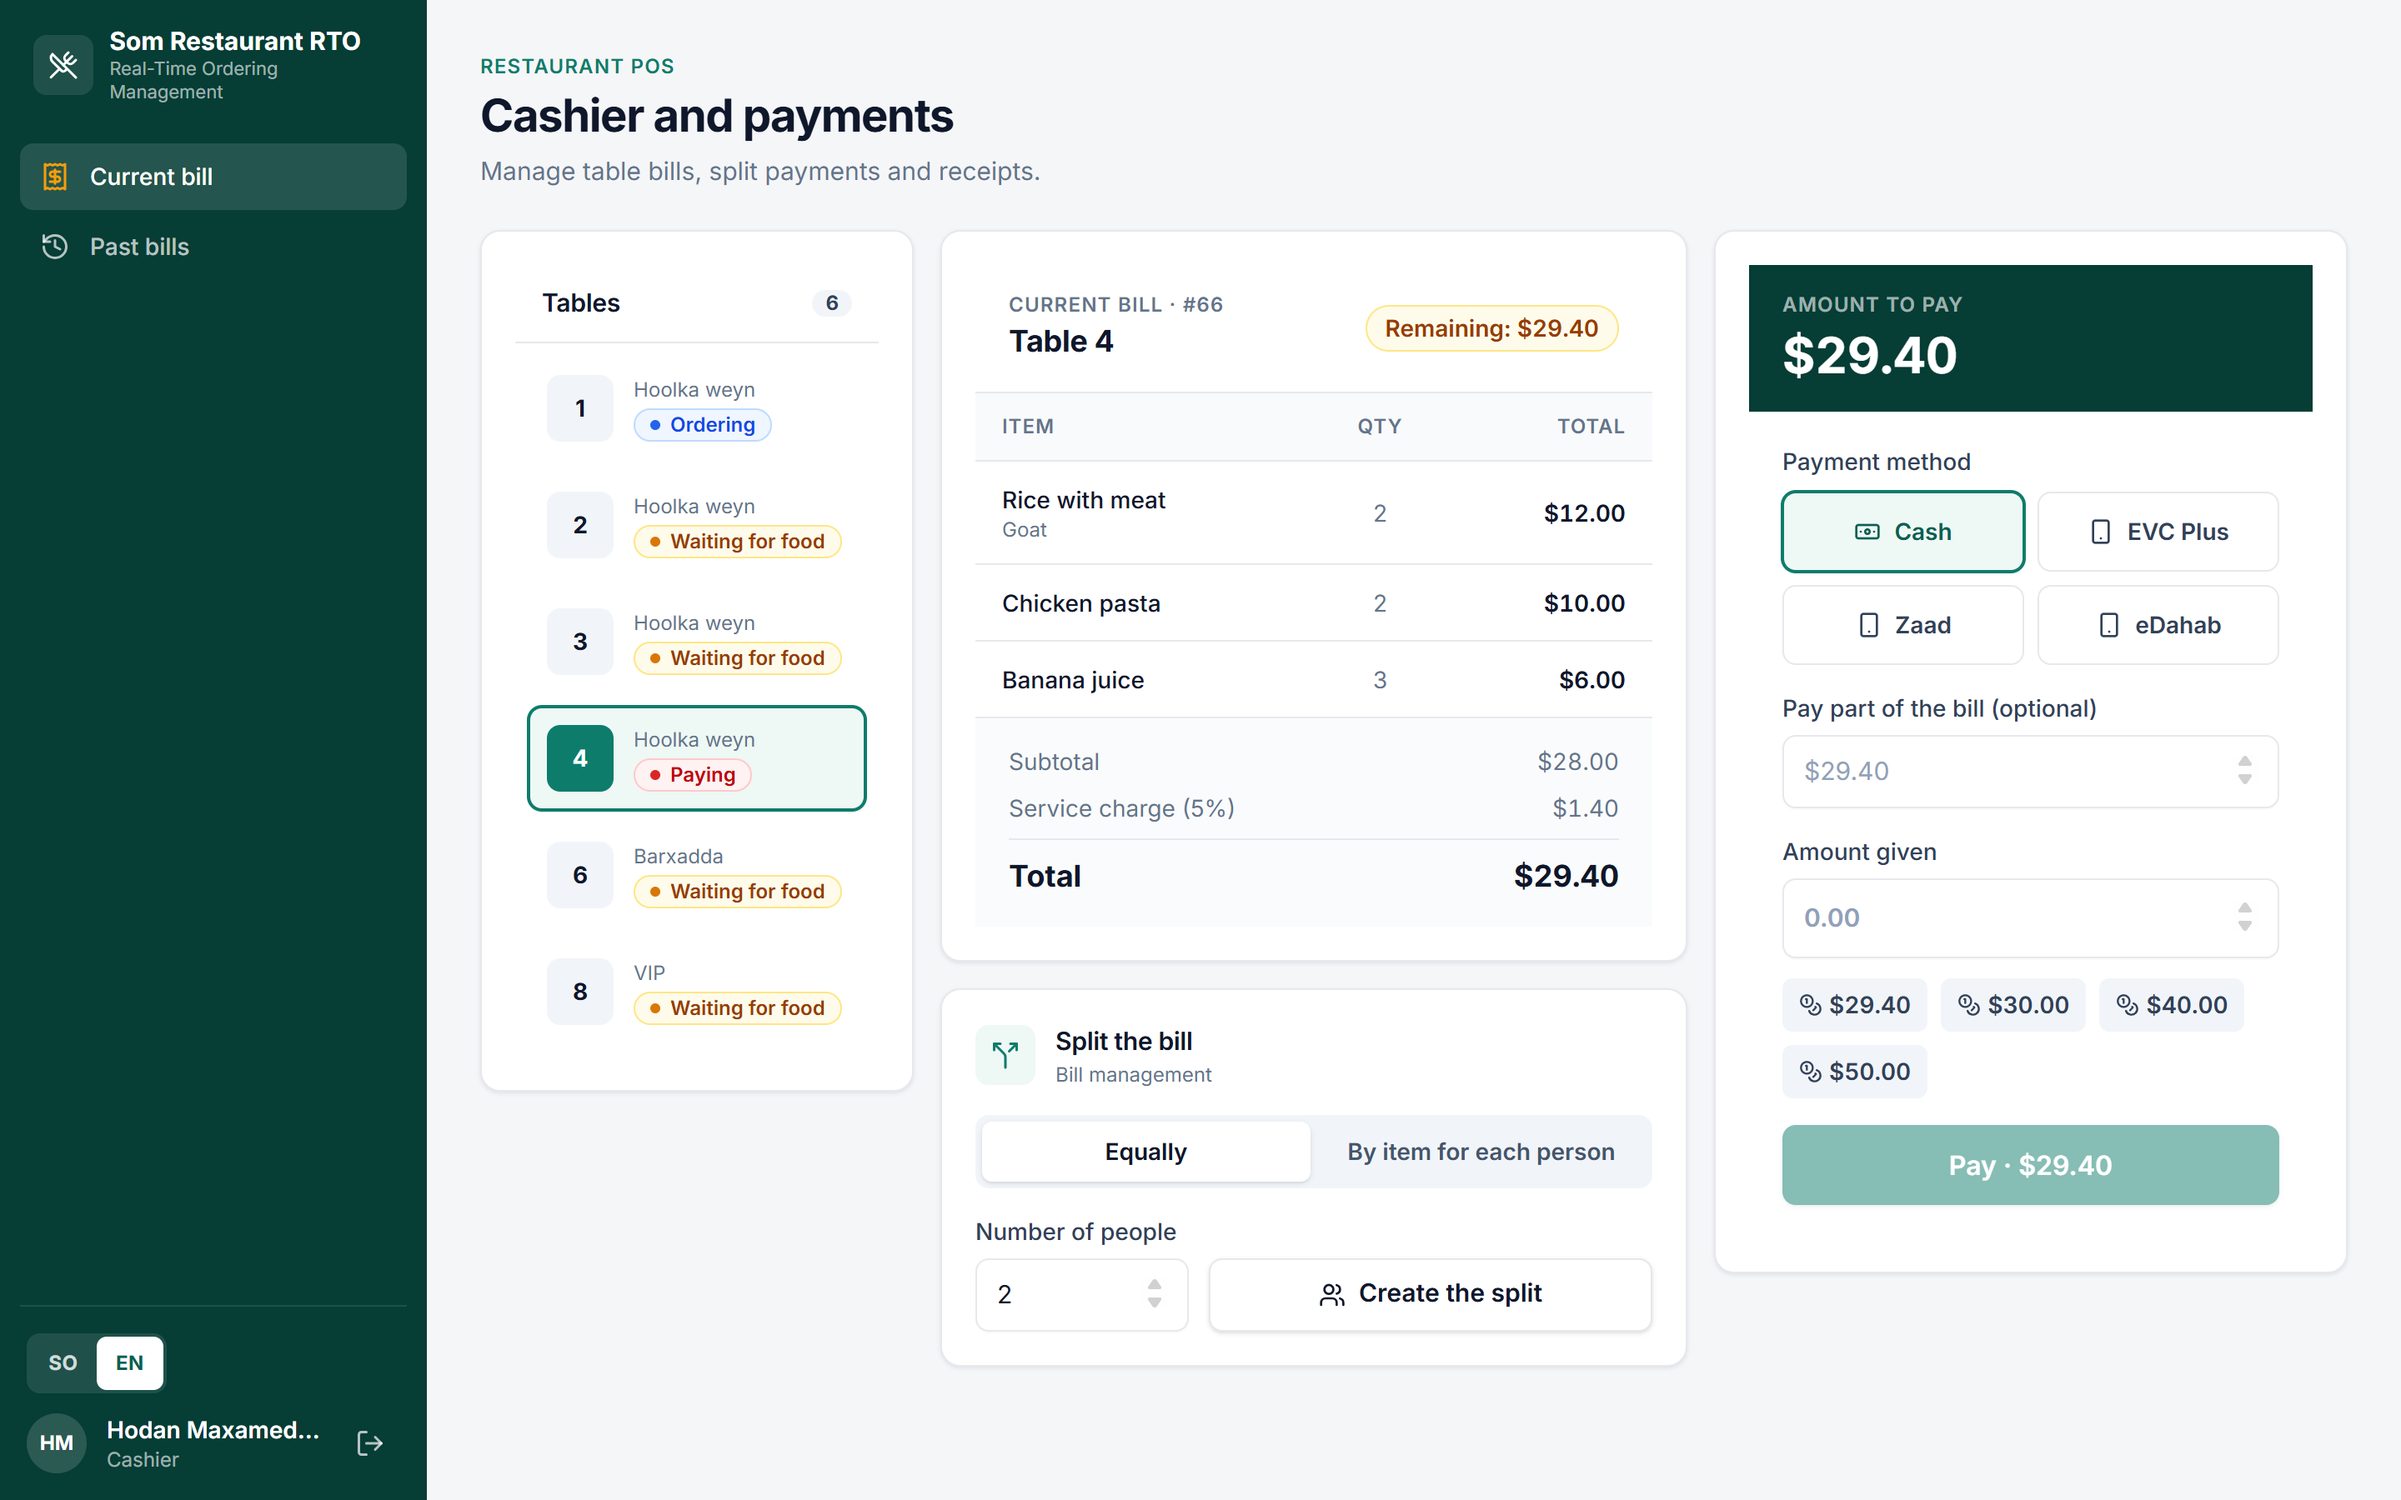
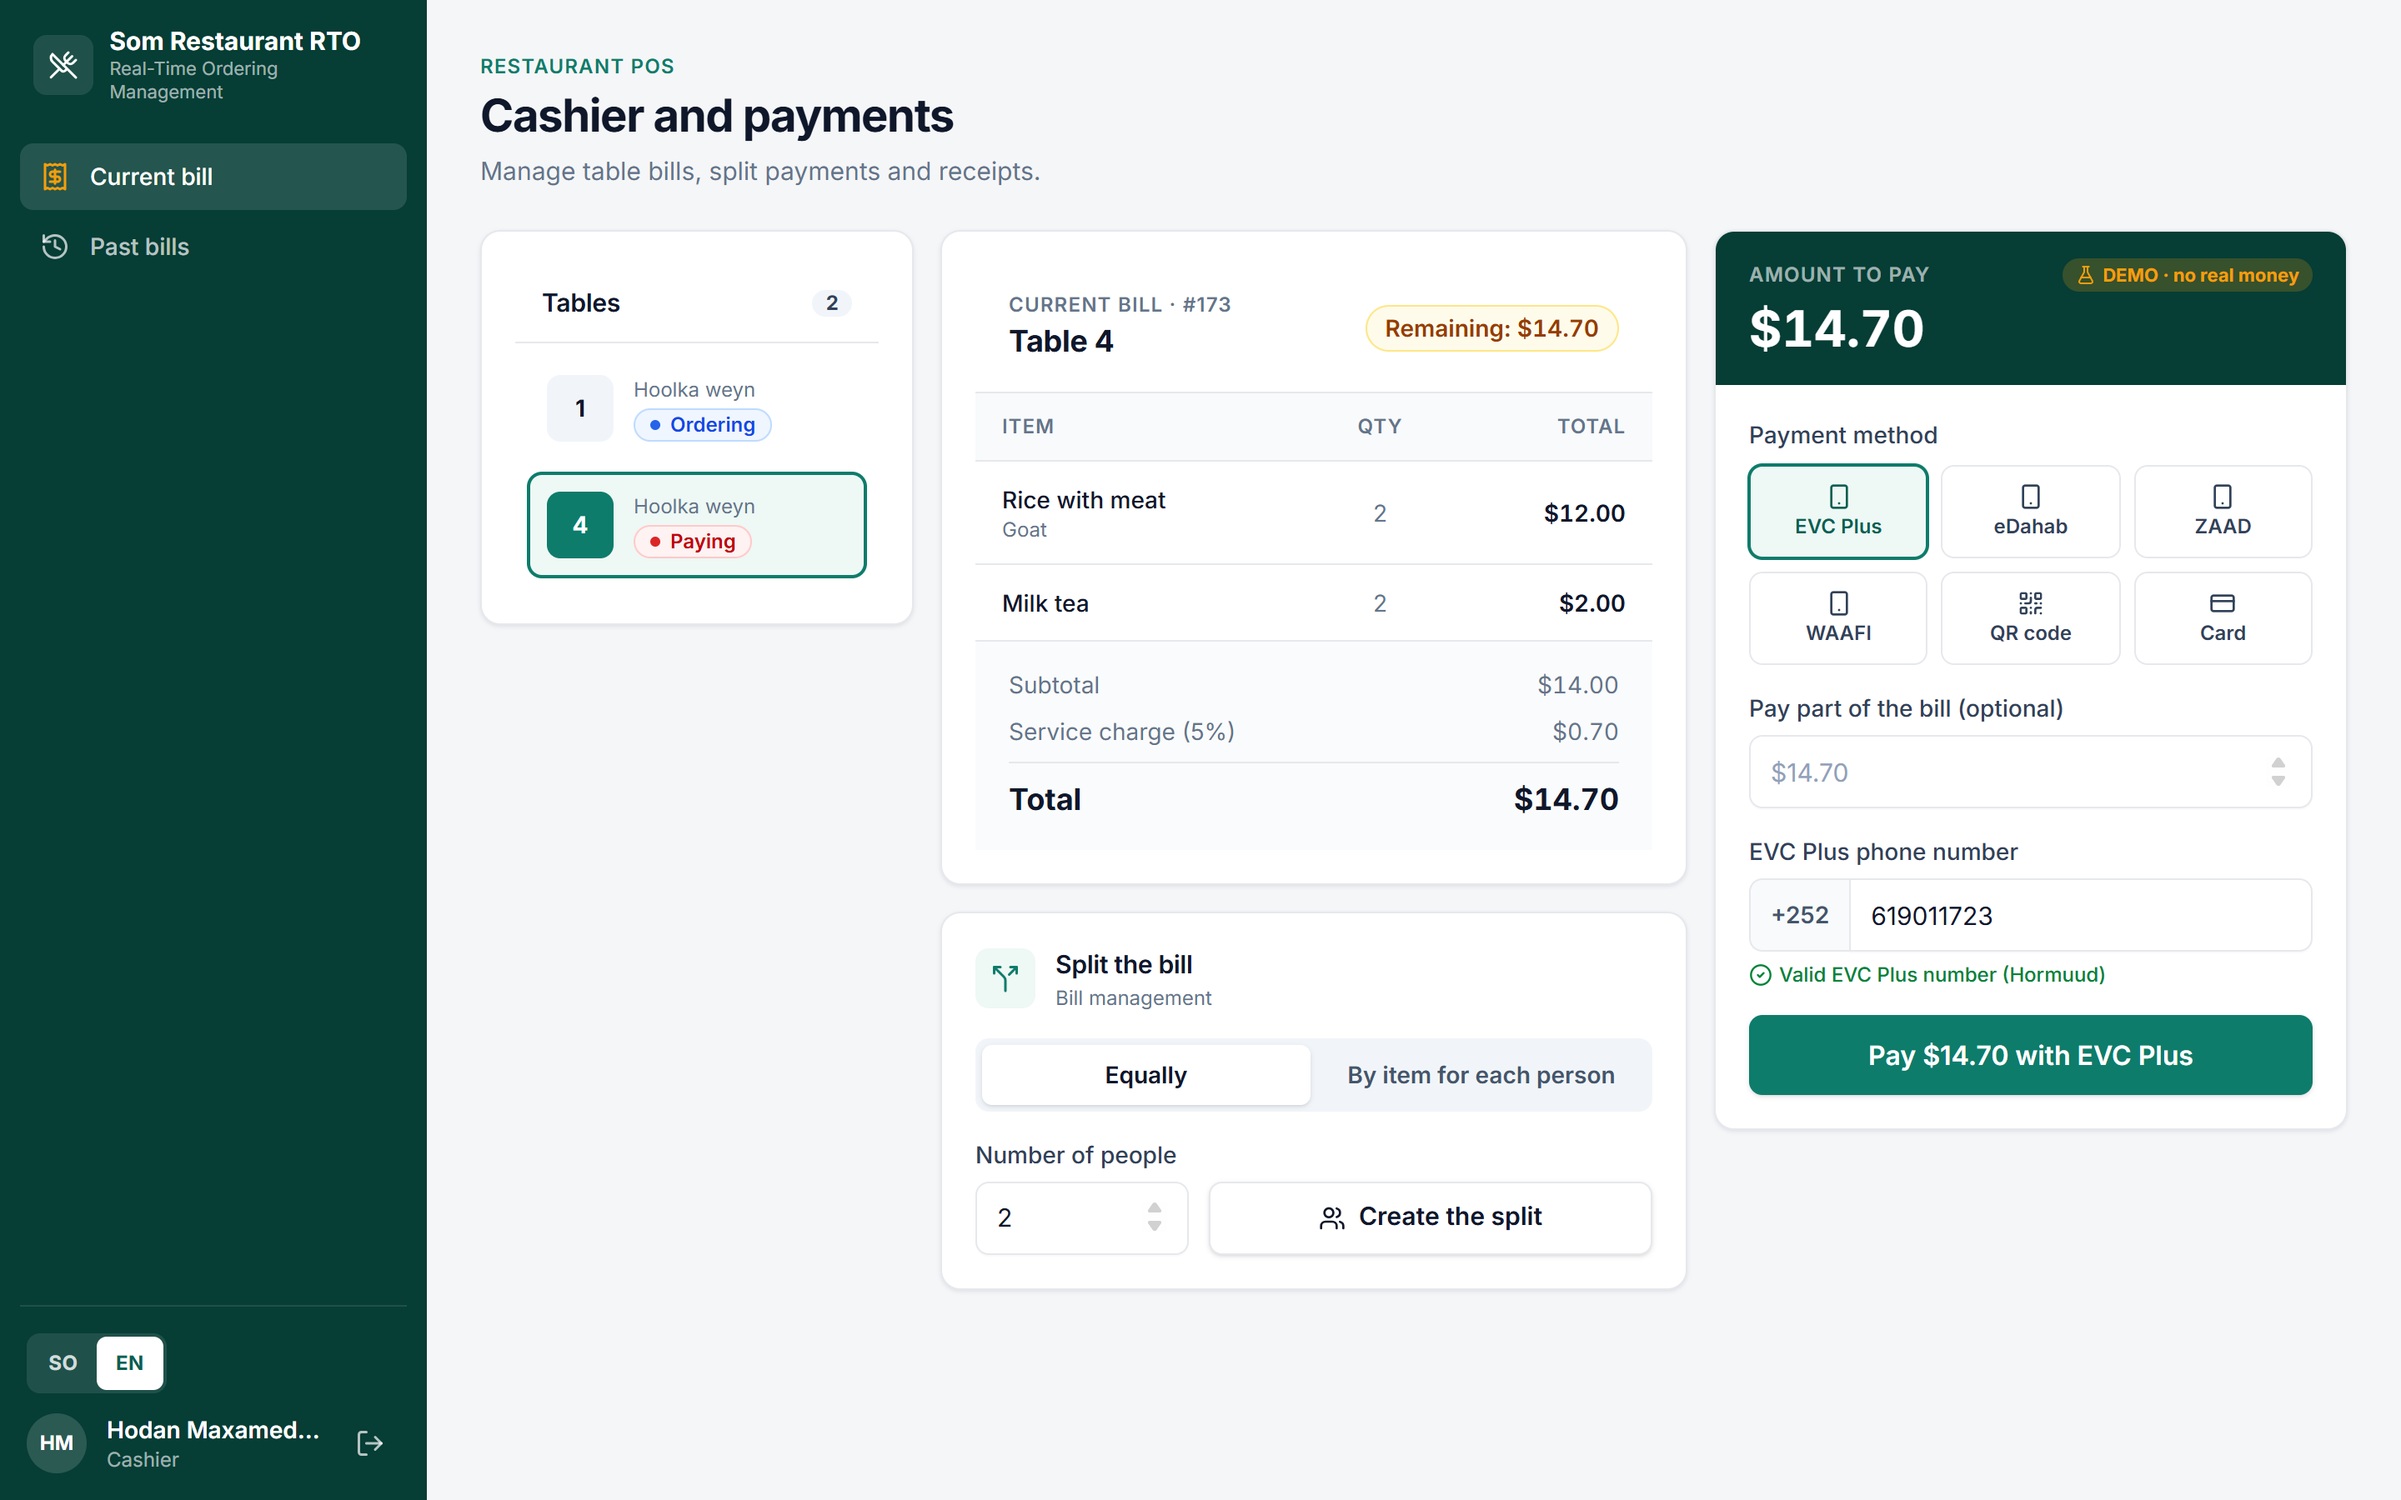
Docs: new cashier screenshot with the demo payment panel

diff --git a/README.md b/README.md
@@ -196,7 +196,8 @@ Taken from the running app with sample data. A pitch deck with these screens is 
 ![Waiter floor map](docs/screenshots/waiter.png)
 
 **Cashier: bill, split and payment**
-![Cashier](docs/screenshots/cashier.png)
+The bill with service charge, an equal or per-item split, and the demo payment panel: EVC Plus, eDahab, ZAAD, WAAFI, QR code or card. The phone number is checked while typing (here a valid EVC Plus number); the server checks it again before any payment.
+![Cashier: bill, split and demo payment](docs/screenshots/cashier.png)
 
 **Reports**
 ![Reports](docs/screenshots/reports.png)
